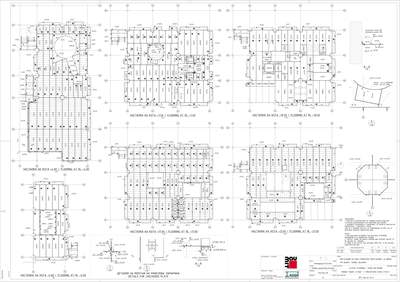
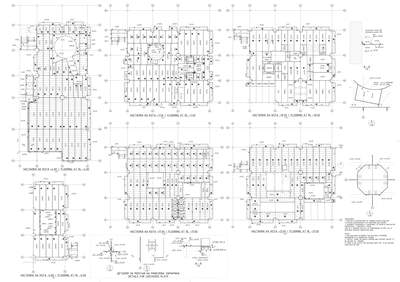
Regenerate and compress PDF thumbnails
- Updated generate_thumbnails.py to use dynamic base path
- Updated compress_thumbnails.py to use dynamic base path
- Regenerated all 39 PDF thumbnails
- Compressed thumbnails from 50MB to 418KB (99.2% reduction)

Changed region(s): [[0.66, 0.8511, 1.0, 0.9929], [0.0, 0.9645, 0.03, 0.9929], [0.0, 0.7376, 0.03, 0.766]]

diff --git a/generate_thumbnails.py b/generate_thumbnails.py
@@ -1,8 +1,9 @@
 import fitz  # PyMuPDF
 import os
 
-# Base path
-base_path = r"C:\Users\Daradudai\WebPage\Projects"
+# Base path - get the script's directory and append Projects
+script_dir = os.path.dirname(os.path.abspath(__file__))
+base_path = os.path.join(script_dir, "Projects")
 
 # List of all PDFs with their paths (relative to Projects folder)
 pdfs = [
@@ -54,7 +55,7 @@ pdfs = [
     "Uxbridge/704509--Claremont Primary School - Dining Hall-3D - View - GA.pdf",
 
     # Portfolio and CV
-    "Portfolio/Rema Design Portfolio.pdf",
+    "Portfolio/Old-Company-Portfolio.pdf",
     "Modern Professional CV Resume.pdf",
 ]
 

diff --git a/compress_thumbnails.py b/compress_thumbnails.py
@@ -1,7 +1,9 @@
 from PIL import Image
 import os
 
-base_path = r"C:\Users\Daradudai\WebPage\Projects"
+# Base path - get the script's directory and append Projects
+script_dir = os.path.dirname(os.path.abspath(__file__))
+base_path = os.path.join(script_dir, "Projects")
 
 # Find all thumbnail folders and compress images
 def compress_thumbnails():
